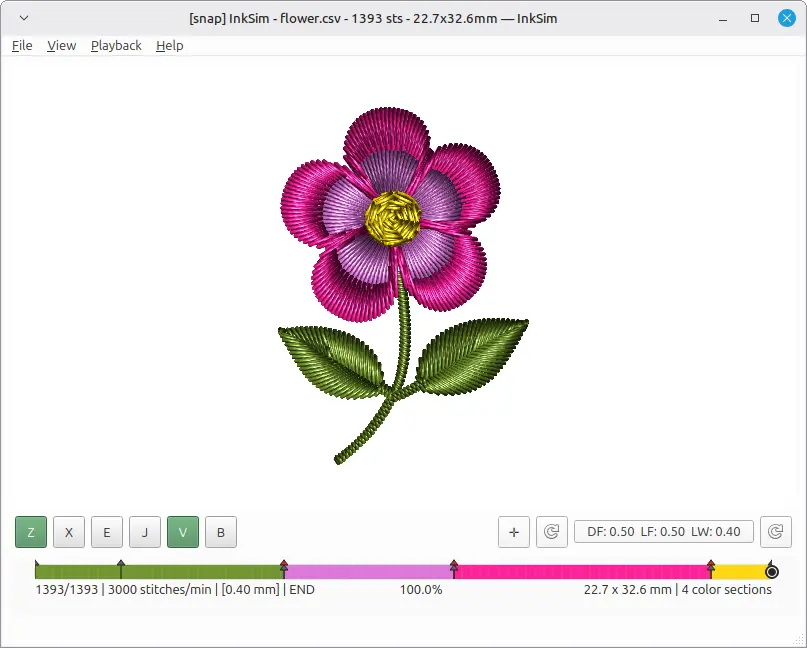
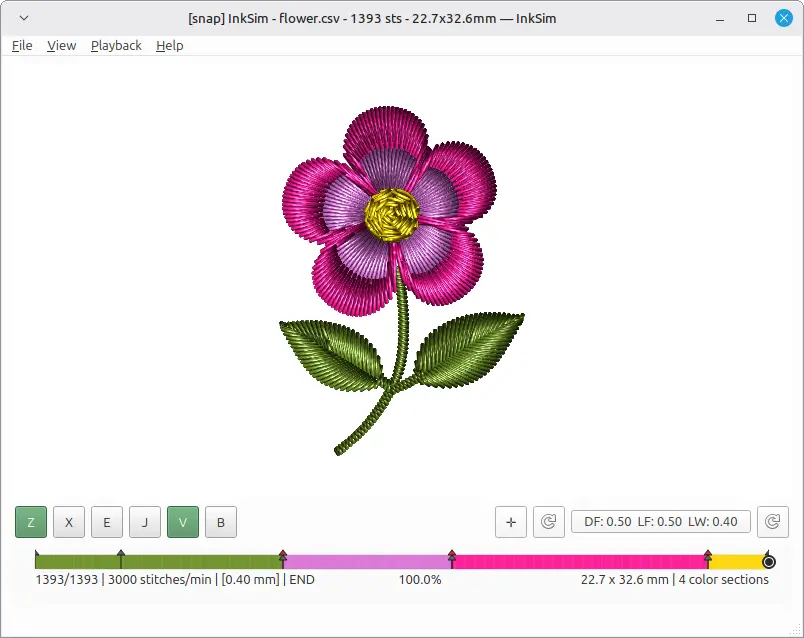
fix: prevent grid moire at low zoom levels

diff --git a/src/inksim/render/grid.py b/src/inksim/render/grid.py
@@ -97,9 +97,15 @@ def render_grid_numba(buf, zoom, pan_x, pan_y):
         elif is_major:
             r, g, b = line, line, line
             strength = 30
-        else:
+        elif solid_centimeter_grid:
             r, g, b = line, line, line
             strength = 18
+        else:
+            # At low zoom the lines are only a few pixels apart; drawing them
+            # as dotted (every 3rd pixel) creates moiré patterns with the
+            # screen pixel grid. Draw a continuous but fainter line instead.
+            r, g, b = line, line, line
+            strength = 9
 
         # Keep crowded grids subtle, but make centimeter lines continuous
         # once there is enough room between them.
@@ -123,9 +129,15 @@ def render_grid_numba(buf, zoom, pan_x, pan_y):
         elif is_major:
             r, g, b = line, line, line
             strength = 30
-        else:
+        elif solid_centimeter_grid:
             r, g, b = line, line, line
             strength = 18
+        else:
+            # At low zoom the lines are only a few pixels apart; drawing them
+            # as dotted (every 3rd pixel) creates moiré patterns with the
+            # screen pixel grid. Draw a continuous but fainter line instead.
+            r, g, b = line, line, line
+            strength = 9
 
         for x in range(w):
             if not (is_axis or solid_centimeter_grid) and x % 3 != 0:

diff --git a/src/inksim/gui/gl_viewer.py b/src/inksim/gui/gl_viewer.py
@@ -201,9 +201,10 @@ void main() {
     float fine = max(gridLine(v_world.x, 1.0), gridLine(v_world.y, 1.0));
     float fineFade = smoothstep(1.5, 3.0, u_zoom_ratio);
 
-    // 0.1 mm micro grid for fine thread-width tuning at high zoom.
+    // 0.1 mm micro grid for fine thread-width tuning at high zoom. At least
+    // 3 px per division is required to avoid aliasing with the pixel grid.
     float micro = max(gridLine(v_world.x, 0.1), gridLine(v_world.y, 0.1));
-    float microFade = smoothstep(1.0, 2.0, u_zoom_ratio);
+    float microFade = smoothstep(30.0, 50.0, u_zoom);
 
     float minor = max(gridLine(v_world.x, 10.0), gridLine(v_world.y, 10.0));
     float major = max(gridLine(v_world.x, 50.0), gridLine(v_world.y, 50.0));
